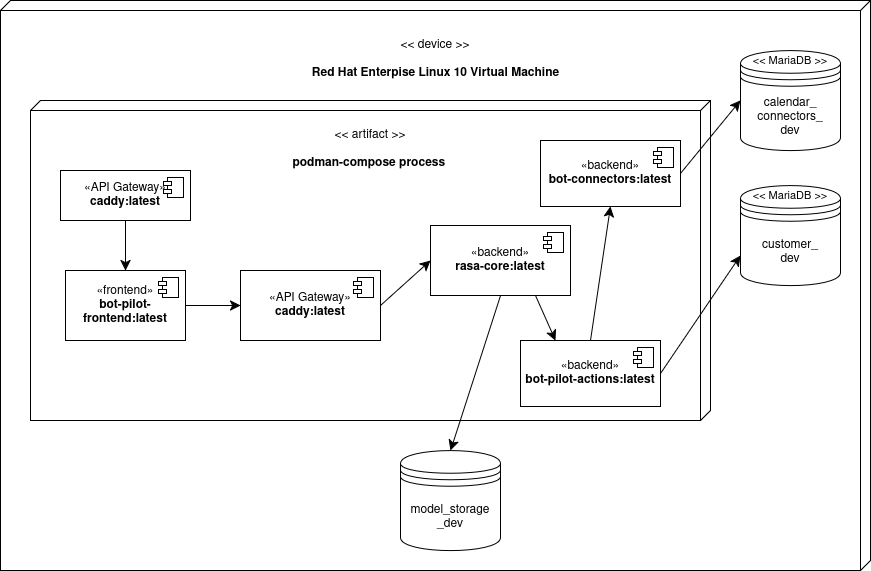
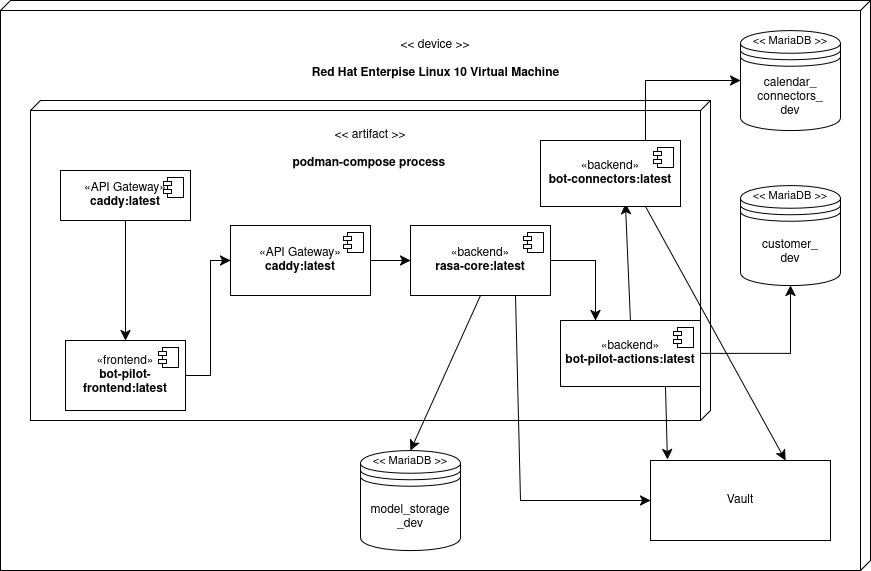
Changed - deployment view for dev-stage + high-level deployment view for dev stage

diff --git a/documentation/bot-pilot-arc42-doc.md b/documentation/bot-pilot-arc42-doc.md
@@ -1,4 +1,4 @@
-#                        
+#                                  
 
 **About arc42**
 
@@ -133,7 +133,15 @@ Important Interfaces
 
 # Deployment View
 
-## Infrastructure Dev-Stage
+## Infrastructure Dev-Stage - A High-Level View
+
+The following deployment view shows the infrastructure elements used in the
+development stage of the system. At this stage of documentation it shows only the High-
+Level components of the infrastructure and how they are connected.
+
+![Deployment View Dev Stage MVP-Phase High Level](images/deployment_view/deployment_view_dev_stage_mvp_high_level.png)
+
+## Infrastructure Dev-Stage - A detailed View
 
 The following infrastructure elements are used in the development
 stage of the system.
